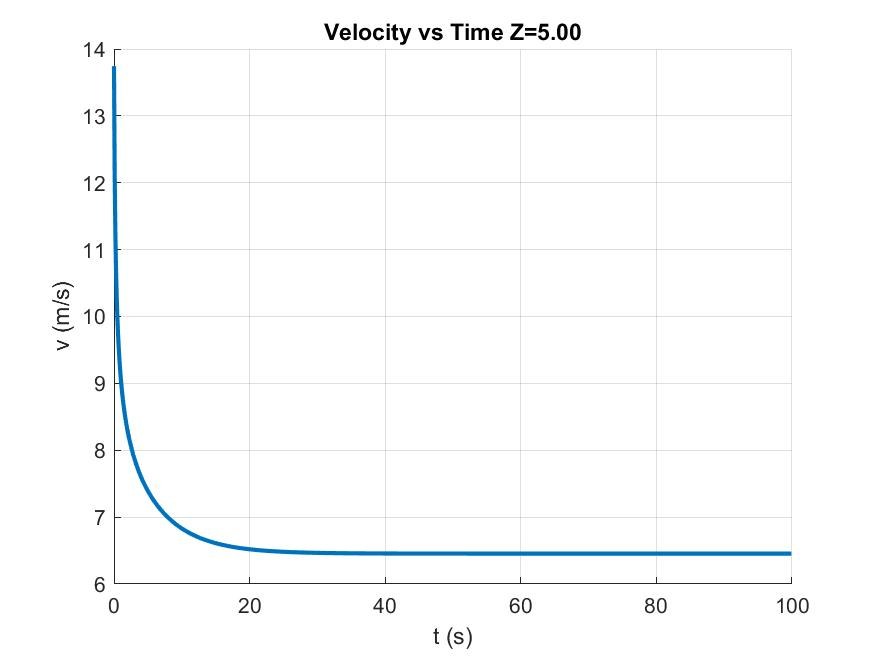
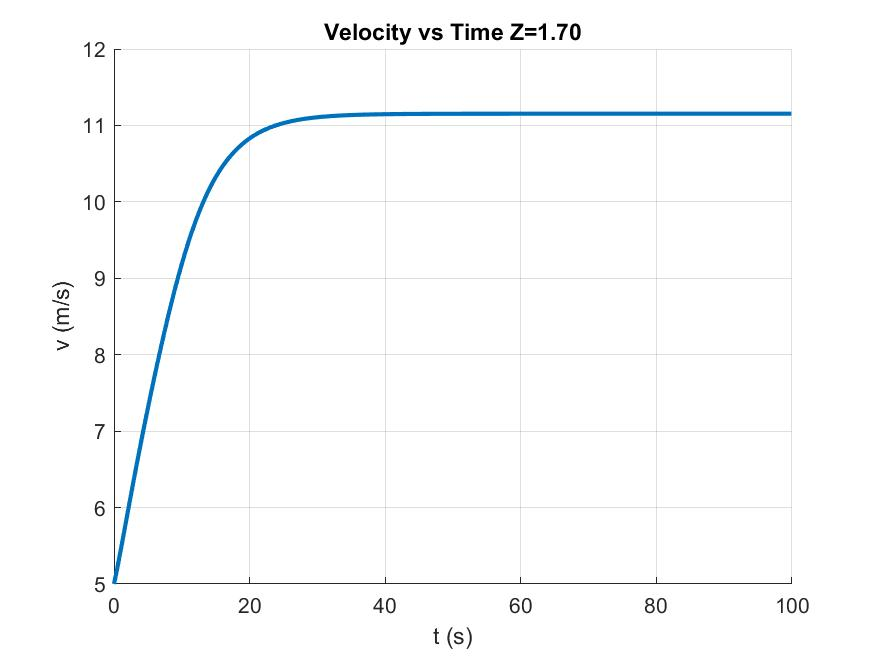
Fixed Z = 1.7

diff --git a/Main.m b/Main.m
@@ -22,6 +22,7 @@ F_d = DragForce(fileID);
 
 air = Air(5);
 [v_top, Z_best] = SearchTransmissionRatios(air, fan, 0.1:0.01:5, F_d);
+Z_best = 1.7;
 vehicle = Vehicle(air, fan, Z_best, F_d);
 v = Simulate(vehicle, 100);
 [v_min, v_max] = vehicle.SpeedBoundary();
